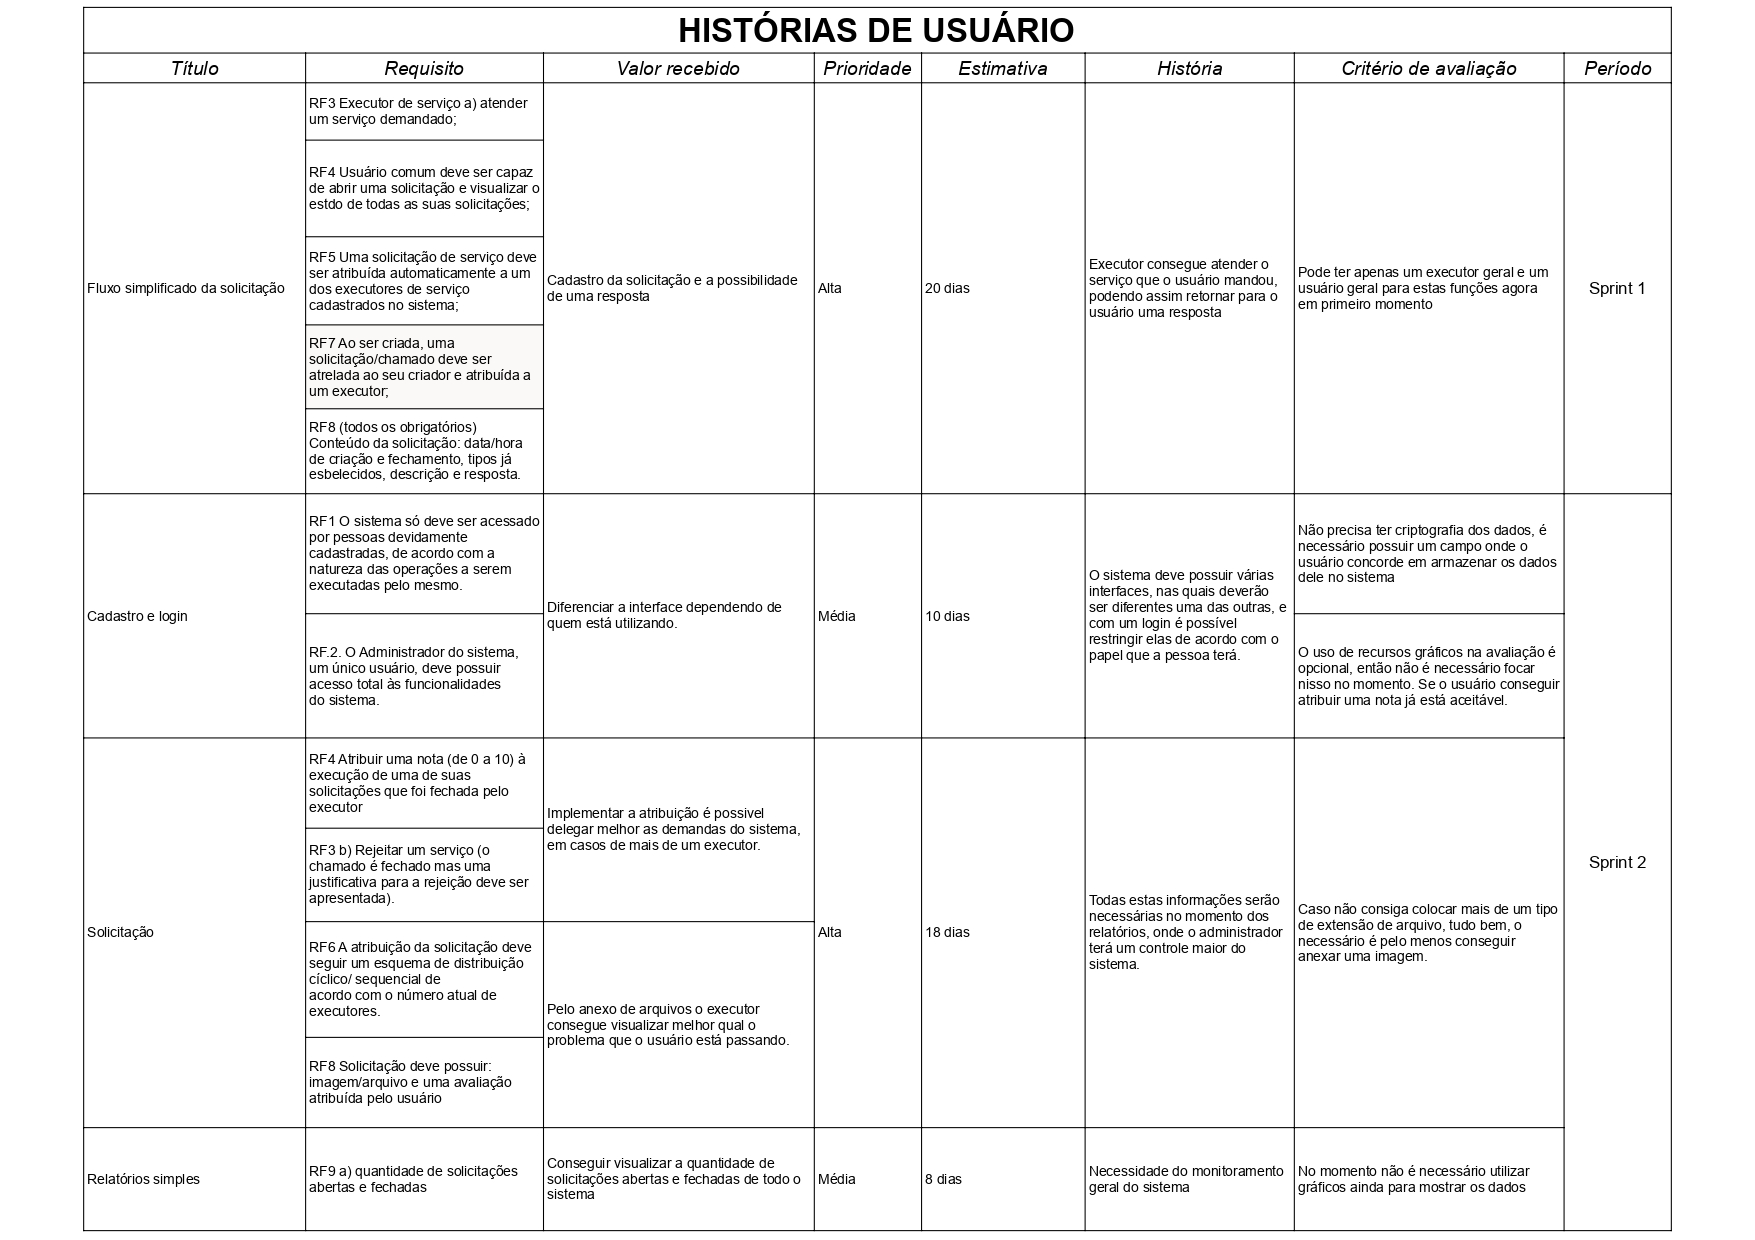
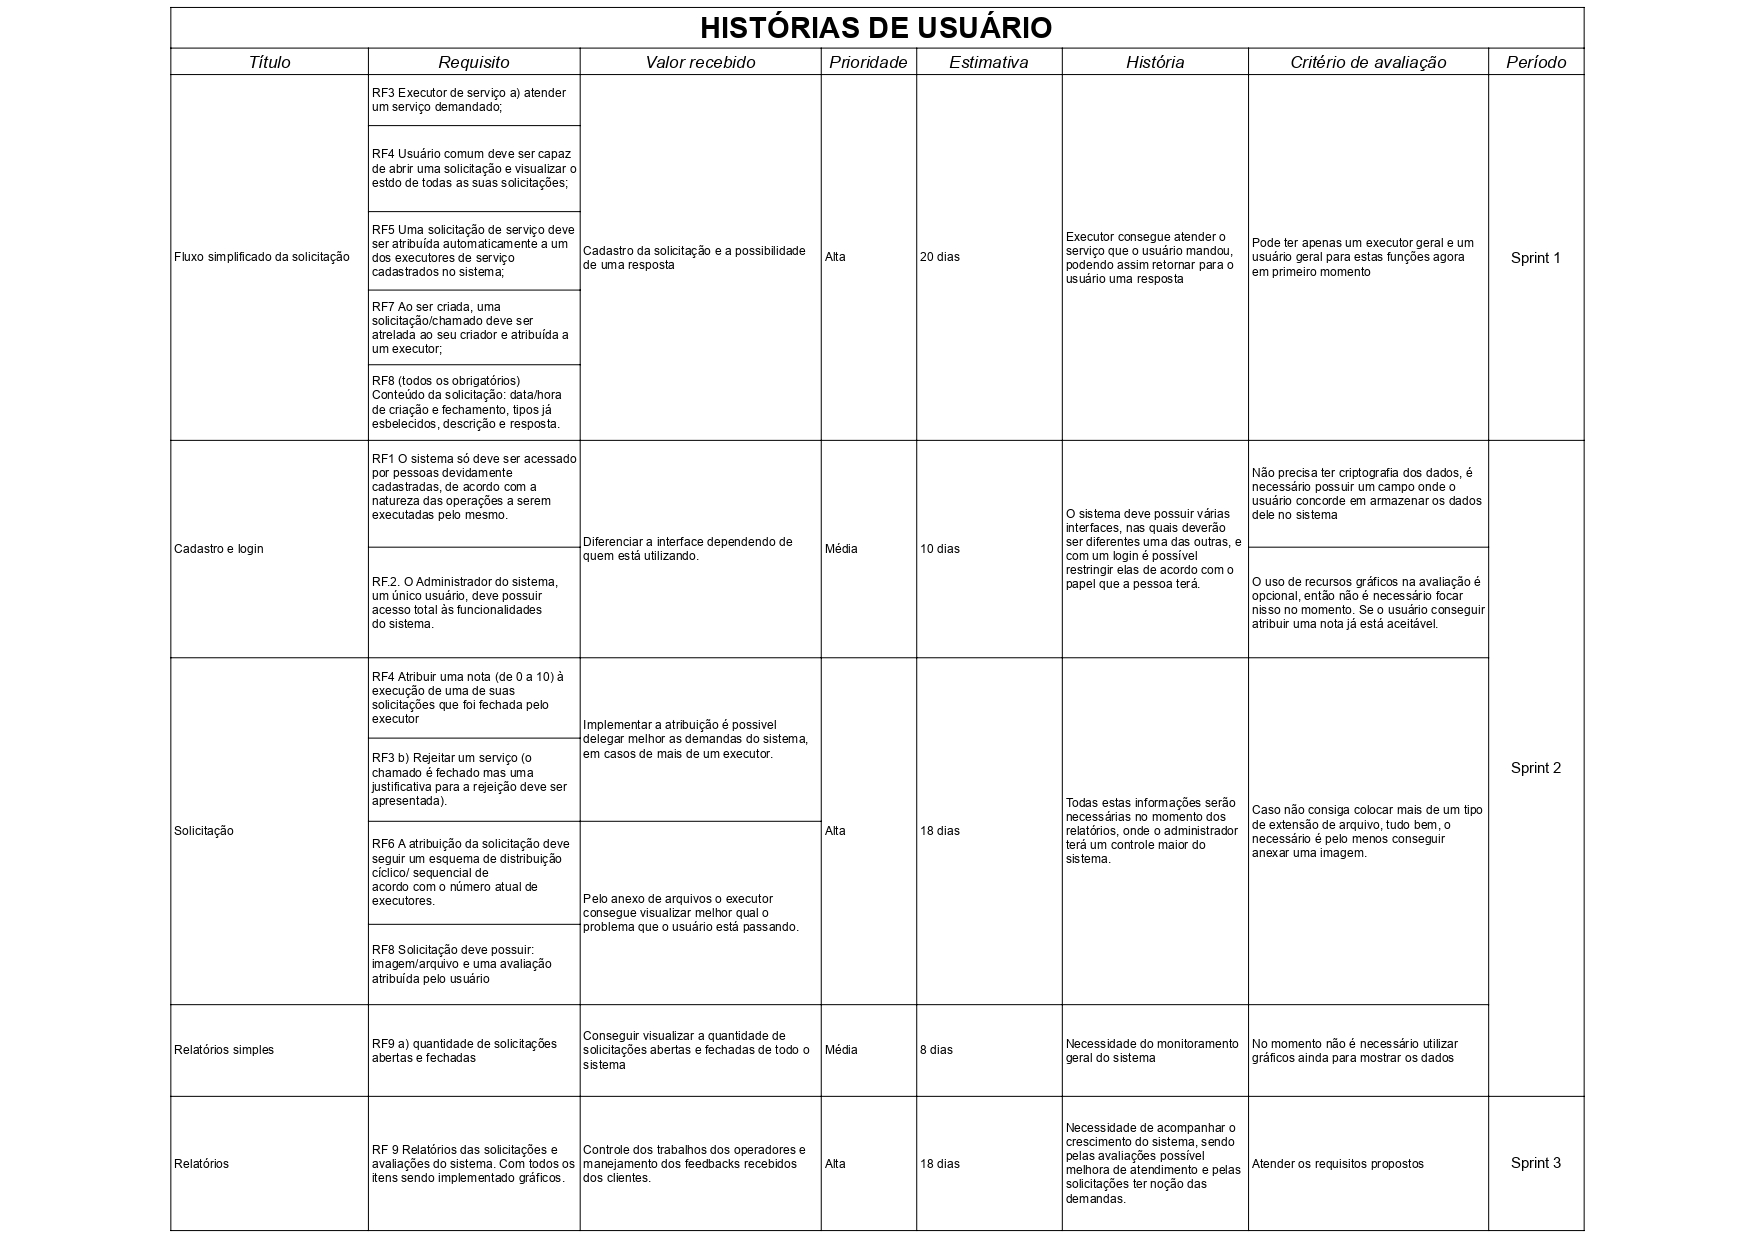
Adicionando conteúdo da sprint 3 no readme

diff --git a/README.md b/README.md
@@ -5,26 +5,34 @@
 
 <hr>
 
+<br>
+
 <p align="center">
   <a href ="#configuracoes"> Executando a aplicação </a>  | 
   <a href ="#planejamento"> Planejamento </a>  |
   <a href ="#mvp"> MVP </a>  |
-  <a href ="#equipe"> Equipe </a> 
+  <a href="#produto-final"> Produto Final</a> |
+  <a href ="#equipe"> Equipe </a>
 </p>
+
+<br>
 
 <h4 align="center">
  <a href="https://developer.mozilla.org/pt-BR/docs/Web/Guide/HTML/HTML5"><img src = "https://img.shields.io/badge/HTML5-E34F26?style=for-the-badge&logo=html5&logoColor=white"/></a>
  <a href="https://developer.mozilla.org/pt-BR/docs/Web/CSS"><img src = "https://img.shields.io/badge/CSS3-1572B6?style=for-the-badge&logo=css3&logoColor=white"/></a>
+ <a href="https://getbootstrap.com/"><img src="https://img.shields.io/badge/Bootstrap-563D7C?style=for-the-badge&logo=bootstrap&logoColor=white"></a>
  <a href="https://developer.mozilla.org/pt-BR/docs/Web/JavaScript"><img src = "https://img.shields.io/badge/JavaScript-F7DF1E?style=for-the-badge&logo=javascript&logoColor=black"/></a>
  <a href="https://www.python.org/"><img src ="https://img.shields.io/badge/Python-3776AB?style=for-the-badge&logo=python&logoColor=white"/></a>
  <a href="https://flask.palletsprojects.com/"><img src ="https://img.shields.io/badge/Flask-000000?style=for-the-badge&logo=flask&logoColor=white"/></a>
  <a href="https://www.mysql.com/"><img src ="https://img.shields.io/badge/MySQL-00000F?style=for-the-badge&logo=mysql&logoColor=white"/></a>
  <a href="https://www.sqlalchemy.org/"><img src ="/doc/front-end/badge-sqlalchemy.svg" width="100"></a>
+ <a href="https://www.heroku.com/"><img src="https://img.shields.io/badge/Heroku-430098?style=for-the-badge&logo=heroku&logoColor=white
+"></a>
 </h4>
 
 <br>
 
-> Status do Projeto: Em andamento 🕓
+> Status do Projeto: Concluído ✅
 
 <br>
 
@@ -33,7 +41,7 @@ Em modo geral, uma Central de Serviços é uma ferramenta que presta assessoria 
 Este projeto será realizado baseado na metodologia ágil SCRUM, que foca no desenvolvimento da proatividade, autonomia e uma melhora da produtividade do time como um todo.
 
 # Executando a aplicação <a id="configuracoes"></a>
-- Primeiramente, clique em `tag` e aparecerá um arquivo *.zip* nominado v1.0.1. Clique para baixá-lo.
+- Primeiramente, clique em `tag` e aparecerá um arquivo *.zip* nominado v3.0.0. Clique para baixá-lo.
 - Para a excução deste sistema há duas formas: instalar um <a href="#instalar-banco">banco de dados local</a> ou utilizar um banco de dados na nuvem. Caso a sua rede seja restrita é recomendada a instalação de um banco local. Caso contrário, pode-se pular as etapas da instalação do banco de dados local e executar os passos de <a href="#rodar-app">Rodar a aplicação</a>.
 
 ## Instalação do banco de dados <a id="instalar-banco"></a>
@@ -139,12 +147,12 @@ CREATE TABLE IF NOT EXISTS solicitacoes(
 
 3. Entre na pasta src e abra o arquivo app.py 
 
-4. Comente a linha 7 desse arquivo (adicionando # no início da linha)
+4. Comente a linha 10 desse arquivo (adicionando # no início da linha)
 ```
 #app.config['SQLALCHEMY_DATABASE_URI'] = 'mysql://bcda6317f670c5:56674bf3@us-cdbr-east-05.cleardb.net/heroku_041f3b642f4313b'
 
 ```
-5. Descomente a linha 8 (retirando o # do início da linha) e altere apenas a palavra 'SENHA' para a senha que você usou para entrar na conexão padrão (passo 2).
+5. Descomente a linha 11 (retirando o # do início da linha) e altere apenas a palavra 'SENHA' para a senha que você usou para entrar na conexão padrão (passo 2).
 ```
 app.config['SQLALCHEMY_DATABASE_URI'] = 'mysql://root:SENHA@localhost/service'
 ```
@@ -155,7 +163,7 @@ app.config['SQLALCHEMY_DATABASE_URI'] = 'mysql://root:SENHA@localhost/service'
 ```
 python --version
 ```
-2. Caso não possua siga os passos de instalação do site oficial do Python: https://www.python.org/
+2. Caso não possua, siga os passos de instalação do site oficial do Python: https://www.python.org/
 3. Caso a resposta seja positiva, pelo terminal de sua preferência, se dirija até a pasta criada pelo arquivo *.zip*. 
 ```
 cd <nome da pasta>
@@ -199,7 +207,7 @@ Como mencionado no início deste documento o desenvolvimento do projeto foi base
 
 - Sprint 1 (25/03 - 14/04): ([Link da Pasta](https://github.com/whatscodeg3/API-DSM-ServiceDesk/blob/main/doc/sprints/sprint1.md)): Concluído ✅
 - Sprint 2 (25/04 - 15/05): ([Link da Pasta](https://github.com/whatscodeg3/API-DSM-ServiceDesk/blob/main/doc/sprints/sprint2.md)): Concluído ✅
-- Sprint 3 (16/05 - 05/06): ([Link da Pasta](https://github.com/whatscodeg3/API-DSM-ServiceDesk/blob/main/doc/sprints/sprint3.md)): Em andamento 🕓
+- Sprint 3 (16/05 - 05/06): ([Link da Pasta](https://github.com/whatscodeg3/API-DSM-ServiceDesk/blob/main/doc/sprints/sprint3.md)): Concluído ✅
 
 
 ## Backlog do produto <a id="backlog"></a>
@@ -213,16 +221,16 @@ Para uma melhor organização, o PO (Product Owner) da equipe maquetizou o backl
 | Modelagem do banco de dados                   | Realizar o modelo conceitual e lógico no BrModelo, e a criação das tabelas no Workbench. Por ser uma modelagem incremental, o foco maior será no necessário para a funcionalidade desta primeira entrega.                                      | Não funcional | Alta       | 1      | ✅ |
 | Banco de dados funcional                      | Através da modelagem do banco de dados feita anteriormente, precisará finalizar a estruração do mesmo.                                                                                                                                         | Não funcional | Alta       | 1      | ✅ |
 | Ligação com o banco de dados                  | Utilizando o SQLAlchemy e Python para realizar a ligação das páginas feitas pela equipe do front-end | Não funcional | Alta | 1 | ✅|
-| Relatório                                     | Uma das funcionalidades do administrador, em que realiza um cálculo percentual em cima das informaçõs das solcitações registradas do sistema.                                                                                                  | Funcional     | Alta       | 3      | 🕓 | 
-| Distribuição da solicitação de serviços       | No momento em que a solicitação é registrada no sistema, esta deverá ser direcionada para algum executor de forma sequencial.                                                                                                                  | Funcional     | Alta       | 2      | 🕓 |
+| Relatório                                     | Uma das funcionalidades do administrador, em que realiza um cálculo percentual em cima das informaçõs das solcitações registradas do sistema.                                                                                                  | Funcional     | Alta       | 3      | ✅ | 
+| Distribuição da solicitação de serviços       | No momento em que a solicitação é registrada no sistema, esta deverá ser direcionada para algum executor de forma sequencial.                                                                                                                  | Funcional     | Alta       | 2      | ✅ |
 | Navegabilidade com Flask                      | Utilizar do mini framework Flask para realizar a navegabilidade entre as páginas do sistema.                                                                                                                                                   | Não funcional | Média      | 1      | ✅ |
 | Vídeo do MVP                                  | Finalizando o desenvolvimento do MVP, algum menbro da equipe deverá gravar seu funcionamento e explicar tecnicamente os aspectos.                                                                                                              | Funcional     | Média      | 1      | ✅ |
 | Documentação no github                        | Escrever descritivamente os passos realizados em cada entrega, realiza-lo de modo incremental a cada entrega.                                                                                                                                  | Não funcional | Média      | 1      | ✅ | 
-| Usuário comum                                 | Determinar que este tipo de pessoa só poderá realizar solicaitações de serviços, verificar o seu histórico de envio e também avaliar a resposta do executor.                                                                                   | Funcional     | Média      | 2      | 🕓 | 
-| Executor                                      | Na sua interface aparecerá apenas as solicitações encaminhadas para ele, e um filtro em que mostre os status de cada solicitação.                                                                                                              | Funcional     | Média      | 2      | 🕓 | 
-| Administrador                                 | Será responsável por todo o sistema, então terá permissão de visualizar os históricos de solicitações (importante deixar filtro por executor), gerar relatórios e terá a permissão de tornar um usuário comum em executor ou vice versa.       | Funcional     | Média      | 2      | 🕓 | 
-| Cadastro e login de usuários                  | Utilizando HTML, CSS e Python (ou JavaScript) será feito uma página para obter os dados do usuário e registra-lo no banco do sistema, no qual será determinante para definir as tarefas que poderão realizar na plataforma.                    | Funcional     | Baixa      | 2      | 🕓 | 
-| Revisão e implementação do sistema            | Analisando as sugestões e orientações passadas nas entregas, revisar e/ou alterar pontos necessários do sistema.                                                                                                                               | Não funcional | Baixa      | 3      | 🕓 | 
+| Usuário comum                                 | Determinar que este tipo de pessoa só poderá realizar solicaitações de serviços, verificar o seu histórico de envio e também avaliar a resposta do executor.                                                                                   | Funcional     | Média      | 2      | ✅ | 
+| Executor                                      | Na sua interface aparecerá apenas as solicitações encaminhadas para ele, e um filtro em que mostre os status de cada solicitação.                                                                                                              | Funcional     | Média      | 2      | ✅ | 
+| Administrador                                 | Será responsável por todo o sistema, então terá permissão de visualizar os históricos de solicitações (importante deixar filtro por executor), gerar relatórios e terá a permissão de tornar um usuário comum em executor ou vice versa.       | Funcional     | Média      | 2      | ✅ | 
+| Cadastro e login de usuários                  | Utilizando HTML, CSS e Python (ou JavaScript) será feito uma página para obter os dados do usuário e registra-lo no banco do sistema, no qual será determinante para definir as tarefas que poderão realizar na plataforma.                    | Funcional     | Baixa      | 2      | ✅ | 
+| Revisão e implementação do sistema            | Analisando as sugestões e orientações passadas nas entregas, revisar e/ou alterar pontos necessários do sistema.                                                                                                                               | Não funcional | Baixa      | 3      | ✅ | 
 
 ## Histórias de usuário <a id="storys"></a>
 O backlog mostrado anteriormente foi baseado nas histórias de usuário coletadas também pela PO da equipe. Nelas podemos observar exatamente o valor desejado pelo cliente e assim dividir as tarefas necessárias para o desenvolvimento da aplicação conforme o esperado e combinado.
@@ -241,7 +249,12 @@ Nosso MVP ficou da seguinte forma:
 Nós também realizamos um vídeo onde explicamos brevemente seu funcionamento e como conseguimos desenvolve-lo, segue o link: 
 <a href="https://youtu.be/B5IebZFQw_Q">Link para acessar o vídeo</a>
 
-      
+
+# Produto Final <a id="produto-final"></a>
+Após todo este processo, nossa equipe consegue com muito orgulho entregar um produto fiel aos requisitos passados pelo nosso cliente. Segue abaixo uma breve demosntração de como ficou o seu resultado final:
+
+
+
 # Equipe <a id="equipe"></a>
 
 | Membro                | Função        | Github                                                                                                                                                | Linkedin                                                                                                                                                                                         |

diff --git a/doc/sprints/sprint3.md b/doc/sprints/sprint3.md
@@ -1,11 +1,15 @@
 # 3ª Sprint
-Na terceira sprint, foi negociado com o cliente ..., nós adicionamos os relatórios e revisamos o sistema inúmeras vezes a fim de achar possíveis falhas e assim resolvê-las
+Para a última entrega deste projeto, como mostrado no backlog apresentado desde a primeira sprint, ficou acordado em focarmos no desenvolvimento e implementações dos relatórios e também para correções de erros.
 
 ## Front-end
-...
+Nos relatórios conseguimos passar os dados, que estavam sendo exibidos em formato de tabela, para gráficos dinâmicos. Os tipos de cada gráfico foi acordado anteriormente com o cliente. Utilizando a biblioteca Chart.js, ficaram da seguinte forma:
 
-**Página adicionada:**
 <img src="/doc/front-end/#" alt="Gif nevegando na pág. relatorios" width="855" >
 
+Outros detalhes como: padronização do menu, implementação gráfica das avaliações,  responsividade, e adição das últimas páginas do wireframe formulado na primeira sprint. Possui uma melhor visualização no gif colocado no tópico **Produto final** do <a href='.. /../README.md'>README</a> principal
+
 ## Back-end
-...
+Para os relatórios realizamos a integração do banco de dados com os gráficos, realizando um tratamento nos dados e também modulando-os para a melhor maneira de se utilizar no gráfico dinâmico, usufruimos de Python e JavaScript para a maior parte desta tarefa.
+
+## Vídeo
+Para demonstrar melhor estes tópicos apresentados, gravamos um vídeo explicando o que foi feito.
